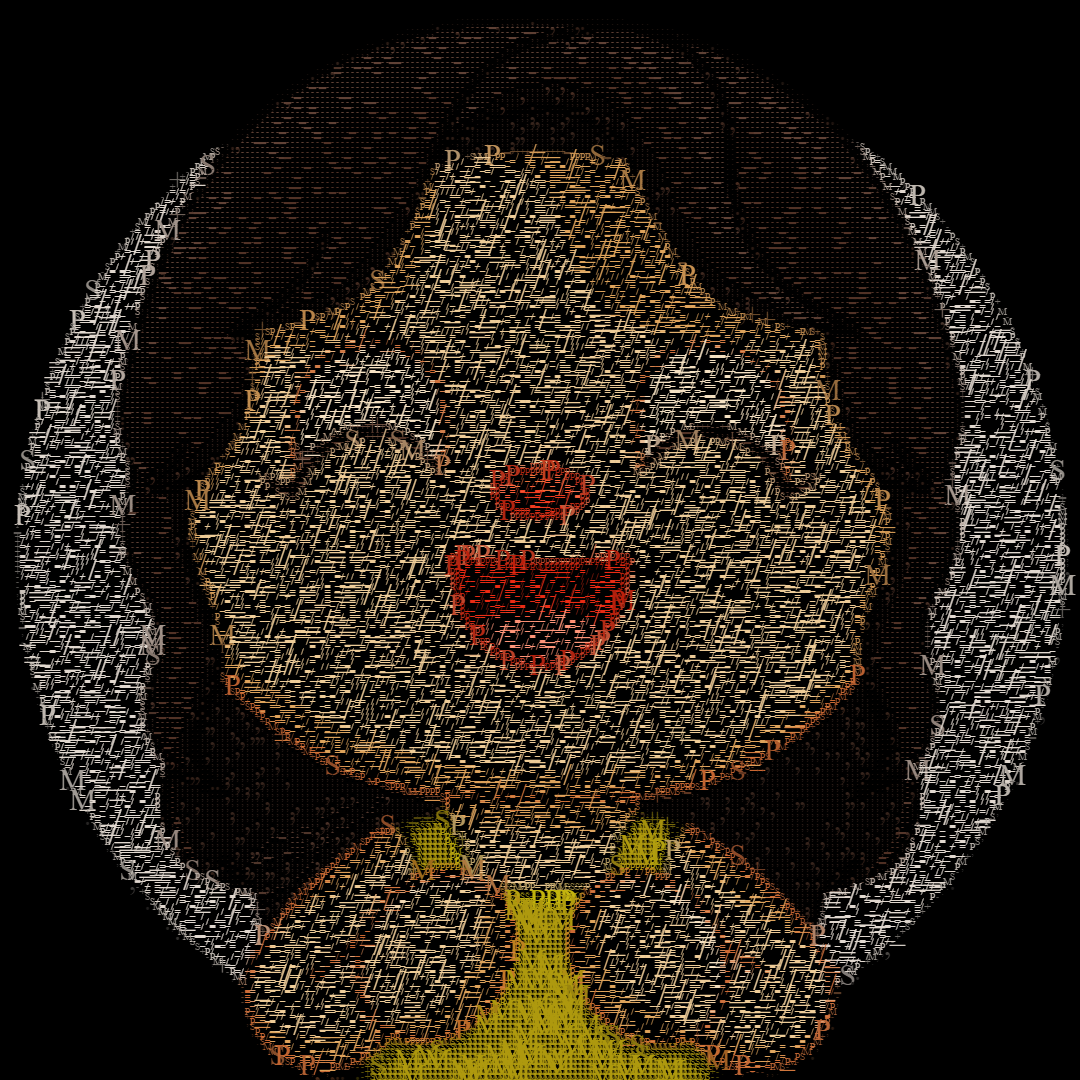
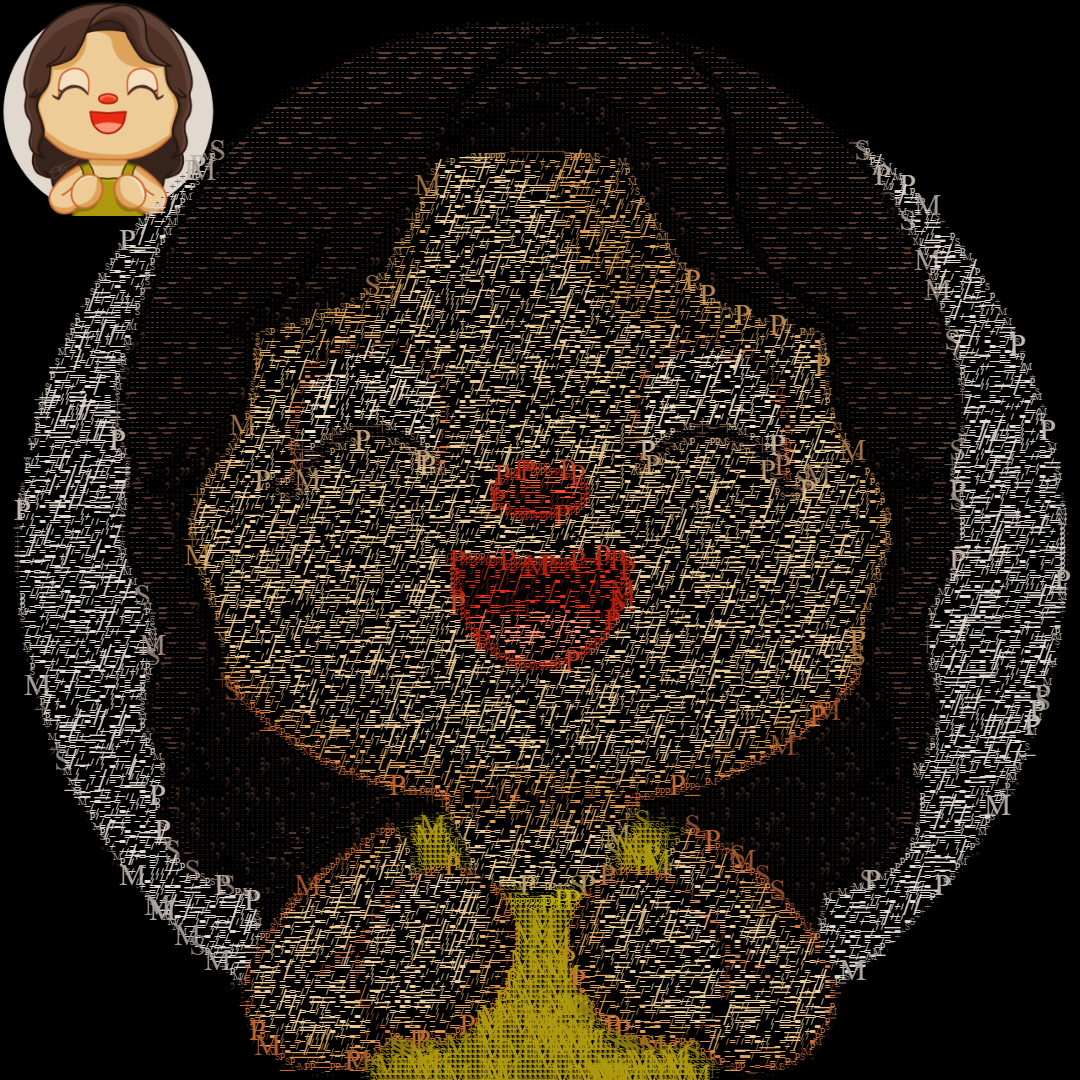
modified sketch-05.js

diff --git a/sketches/sketch-05.js b/sketches/sketch-05.js
@@ -1,4 +1,4 @@
-/****************** FOR LETTER GENERATION ******************/
+/****************** FOR LETTER GENERATION ******************
 const canvasSketch = require("canvas-sketch");
 const random = require("canvas-sketch-util/random");
 
@@ -140,8 +140,9 @@ const start = async () => {
 };
 
 start();
+*/
 
-/****************** FOR IMAGE GENERATION  ******************
+/****************** FOR IMAGE GENERATION  ******************/
 const canvasSketch = require("canvas-sketch");
 const random = require("canvas-sketch-util/random");
 
@@ -196,6 +197,8 @@ const sketch = ({ context, width, height }) => {
     context.textBaseline = "middle";
     context.textAlign = "center";
 
+    context.drawImage(typeCanvas, 0, 0); // Smaller canvas that appears in the top left
+
     for (let i = 0; i < numCells; i++) {
       const col = i % cols;
       const row = Math.floor(i / cols);
@@ -244,4 +247,3 @@ const start = async () => {
 };
 
 start();
-*/
